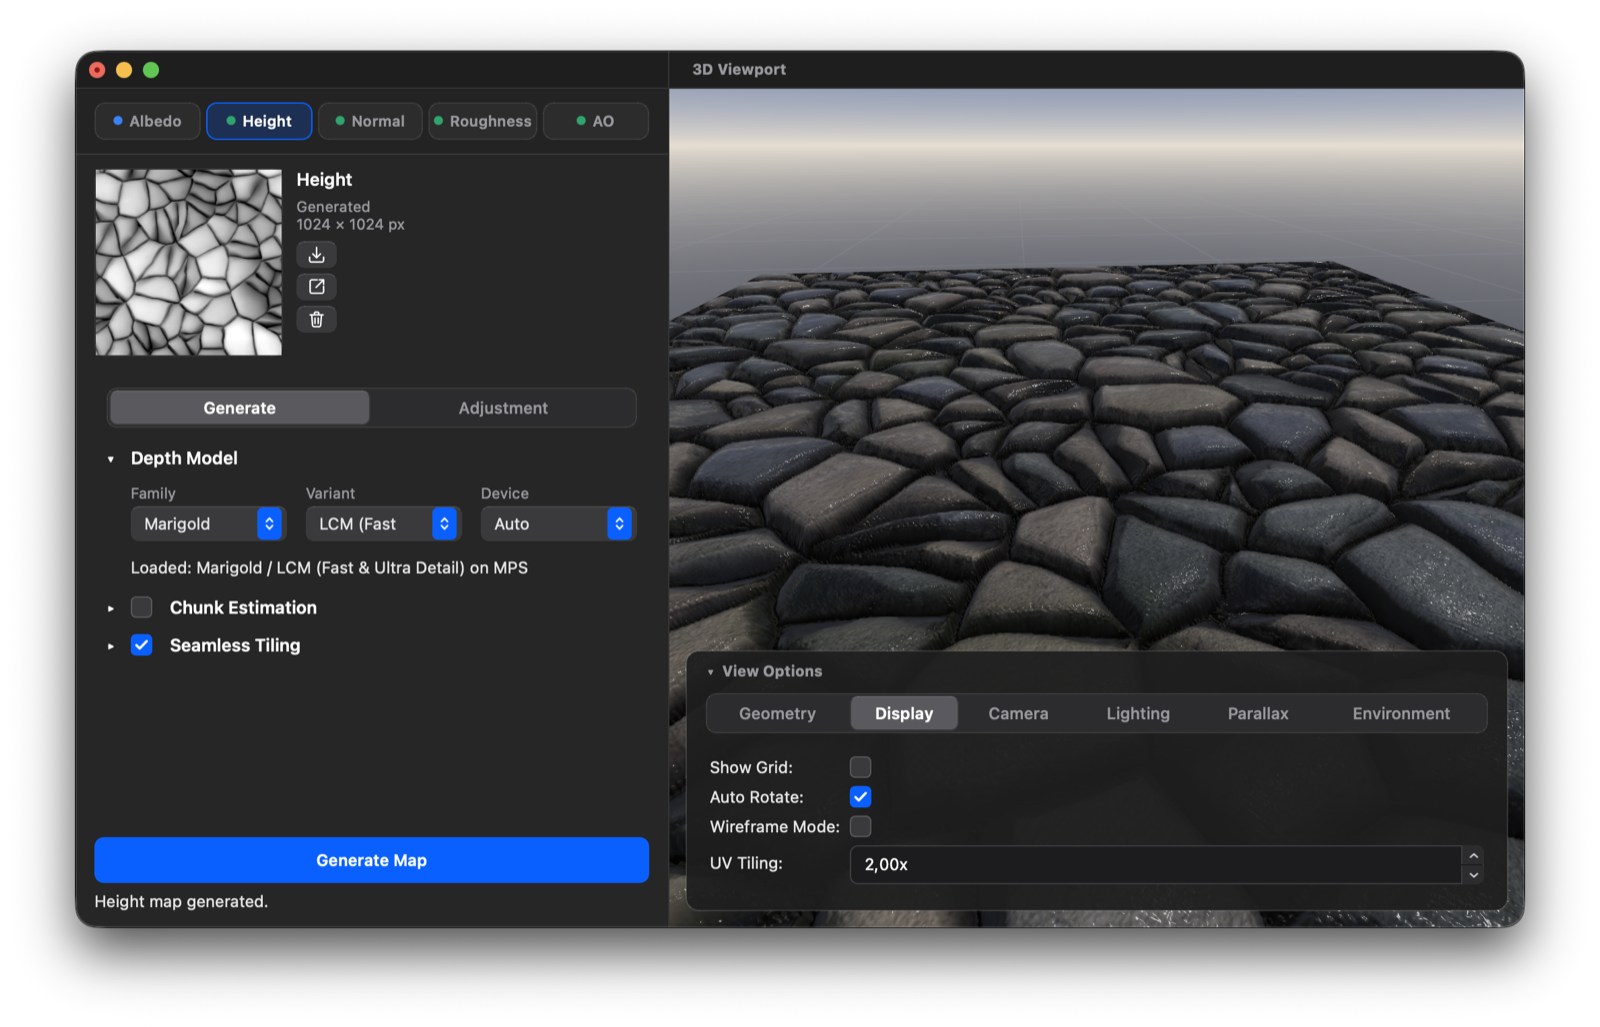
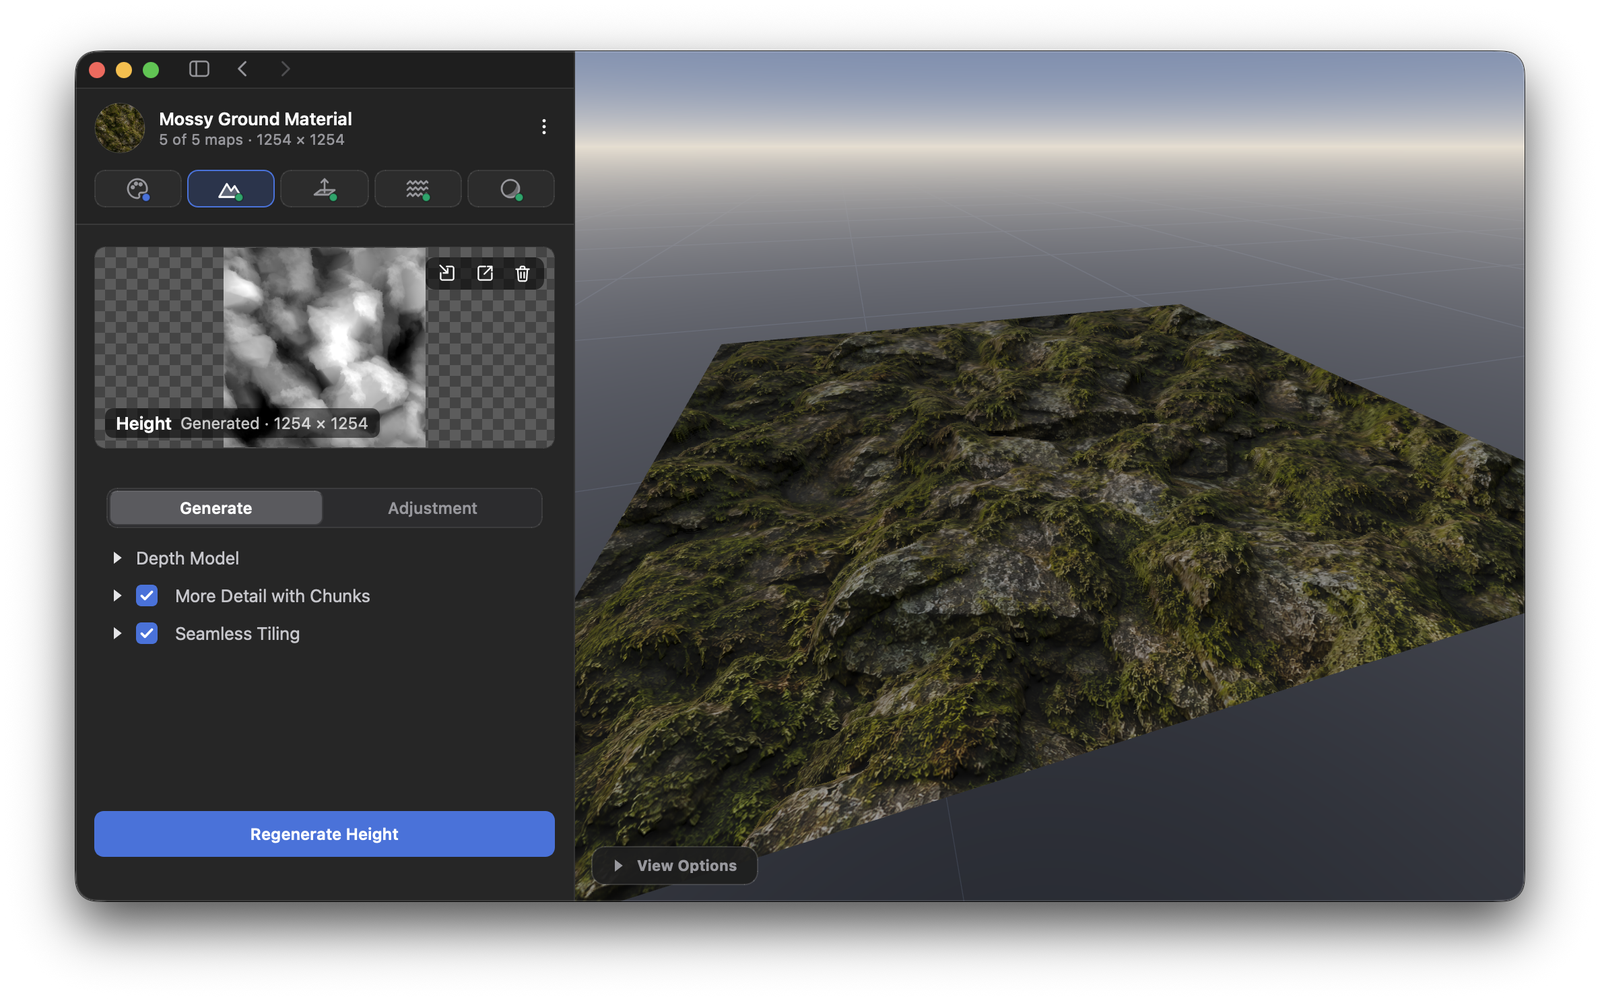
Update the README screenshot and swap the tree bark showcase for mossy ground

diff --git a/README.md b/README.md
@@ -31,8 +31,8 @@ the result live on a 3D preview.
 Materials generated from single photos, previewed in the built-in 3D viewport.
 
 <p align="center">
-  <img src="docs/media/tree-bark.gif" alt="Tree bark material in the 3D viewport" width="520"><br>
-  <em>Tree bark</em>
+  <img src="docs/media/mossy-ground.gif" alt="Mossy ground material rotating in the 3D viewport" width="520"><br>
+  <em>Mossy ground</em>
 </p>
 
 <p align="center">
